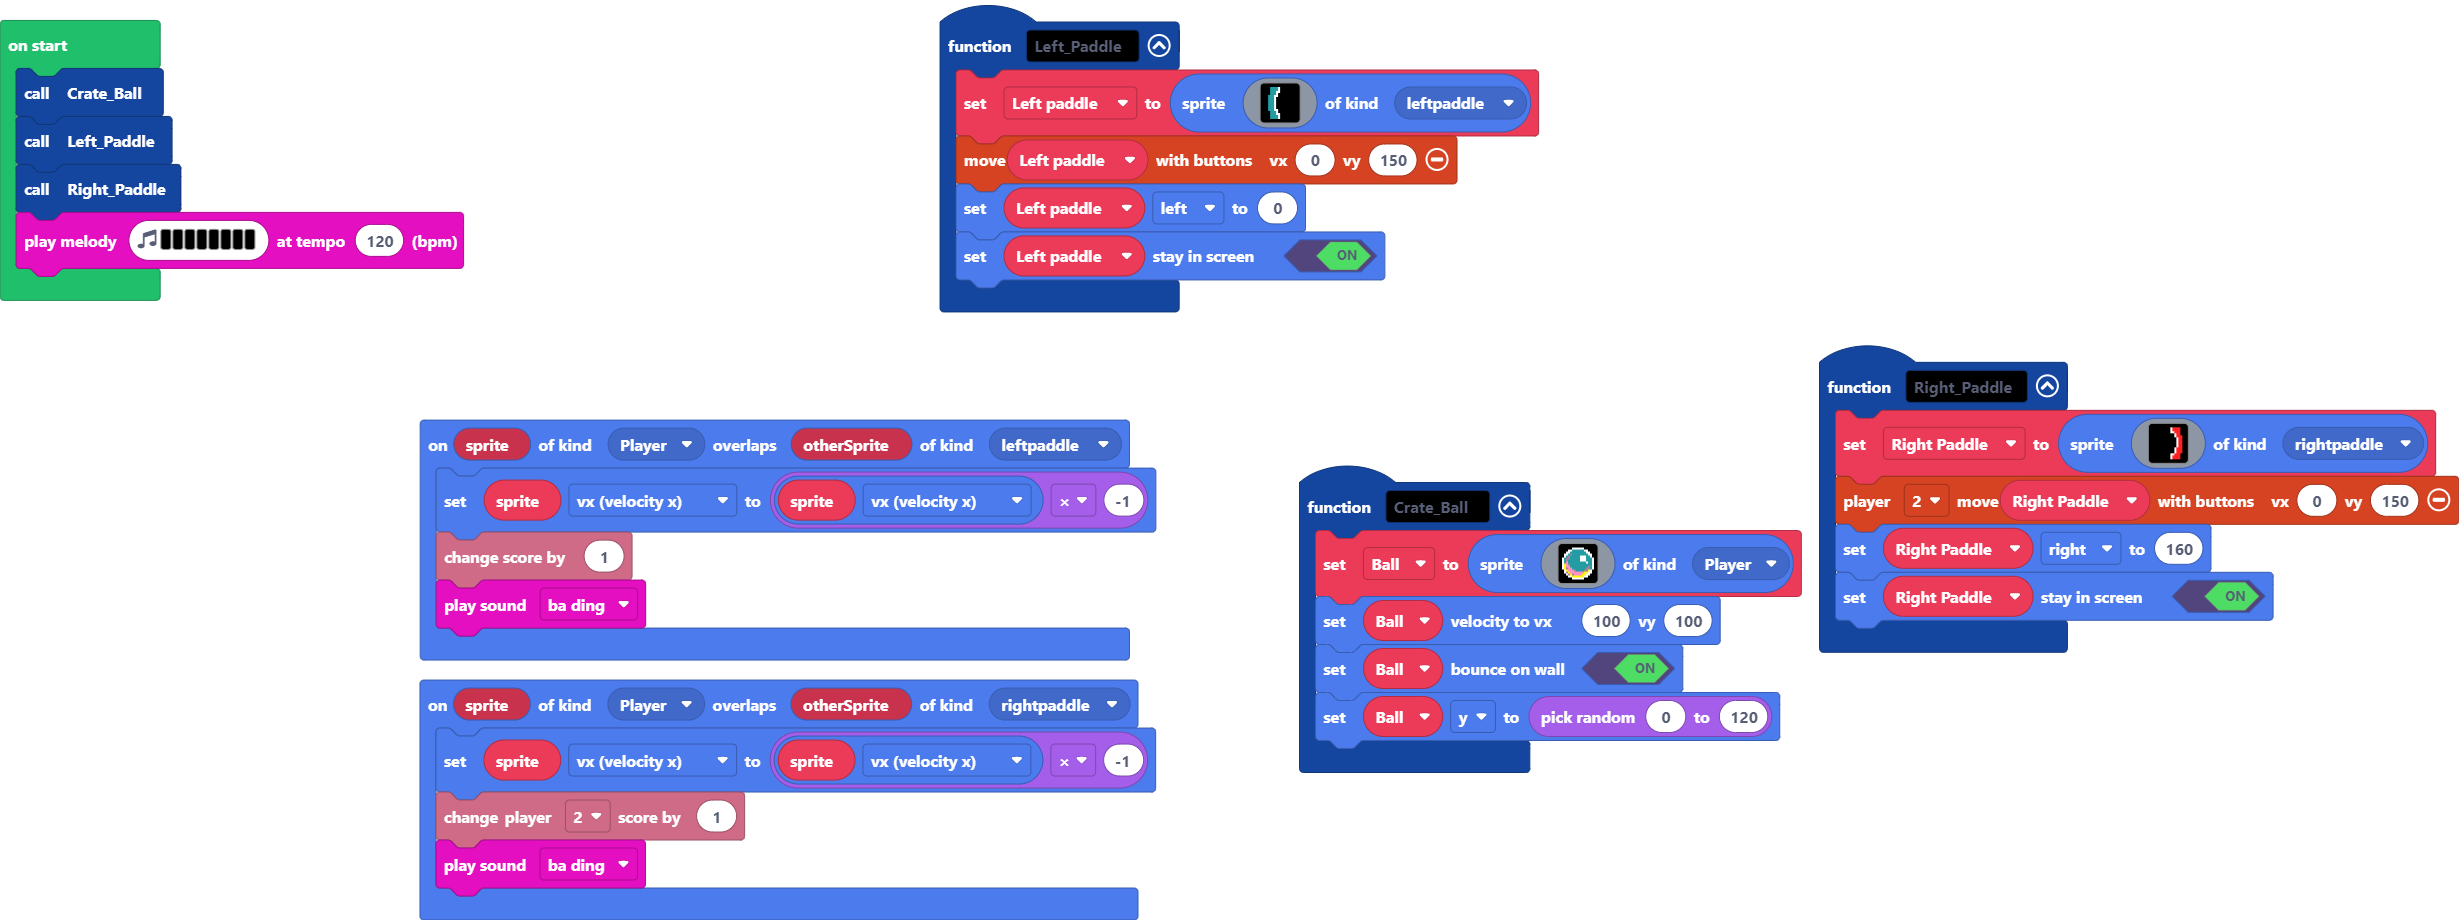
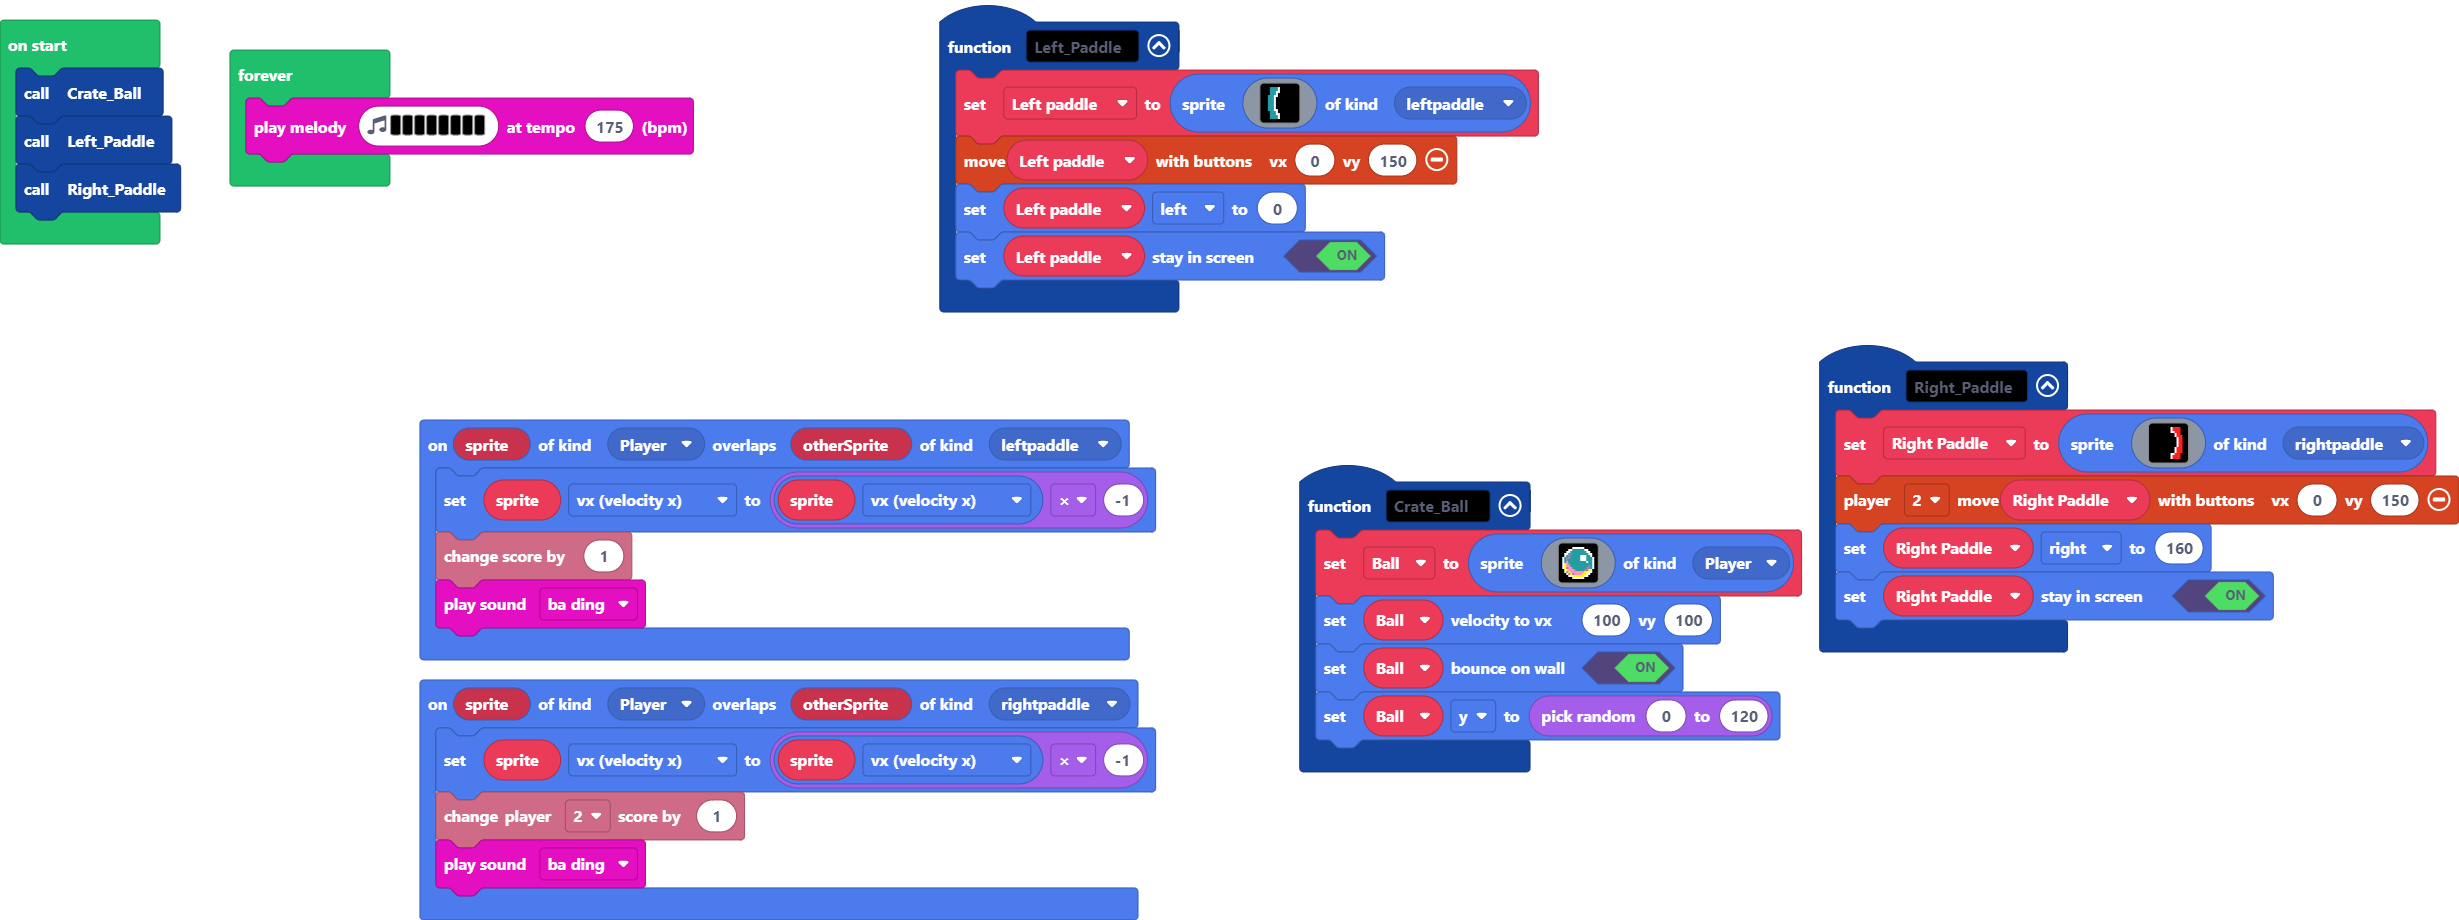
Update pxt.json, main.blocks, main.ts, tilemap.g.jres, tilemap.g.ts

diff --git a/tilemap.g.ts b/tilemap.g.ts
@@ -1,0 +1,14 @@
+// Auto-generated code. Do not edit.
+namespace myTiles {
+    //% fixedInstance jres blockIdentity=images._tile
+    export const transparency16 = image.ofBuffer(hex``);
+
+    helpers._registerFactory("tile", function(name: string) {
+        switch(helpers.stringTrim(name)) {
+            case "transparency16":return transparency16;
+        }
+        return null;
+    })
+
+}
+// Auto-generated code. Do not edit.

diff --git a/main.ts b/main.ts
@@ -87,4 +87,6 @@ let Left_paddle: Sprite = null
 Crate_Ball()
 Left_Paddle()
 Right_Paddle()
-music.playMelody("G B A G C5 B A B ", 120)
+forever(function () {
+    music.playMelody("G B A G C5 B A B ", 175)
+})
